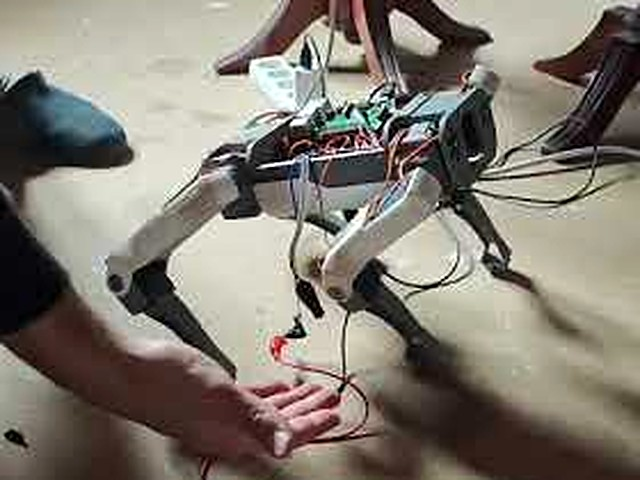
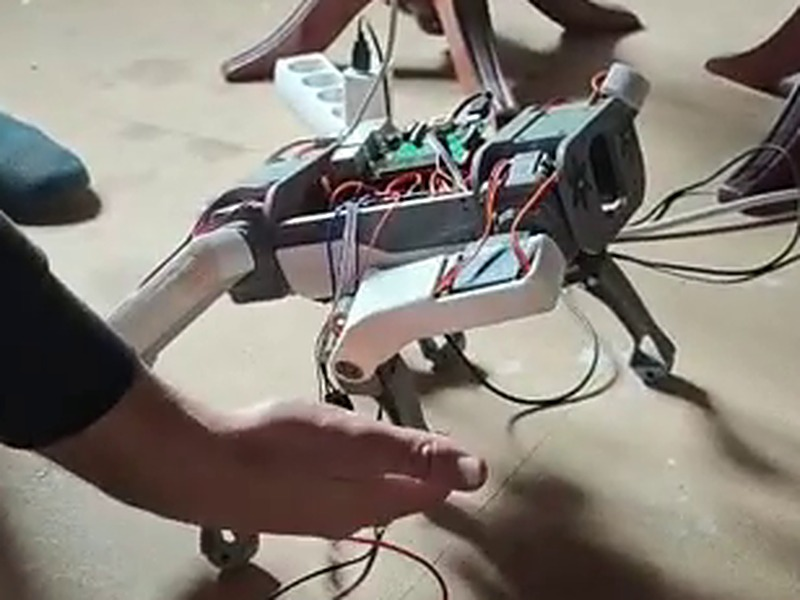
README: cabecera en caja con el robot en acción (WebP animado del vídeo) y 3 fotogramas nítidos: se levanta, menea el culo, da la pata
Fotogramas elegidos midiendo la nitidez en cada momento del vídeo (7,3 s, 50,0 s y 57,8 s) y recortados alrededor del robot.

diff --git a/README.en.md b/README.en.md
@@ -5,14 +5,21 @@
 <p align="center"><b>A 3D-printed quadruped robot dog (a SpotMicro clone) that stands up, gallops, gives its paw and
 "hails the bus", driven from a web app and from the TV, with no internet needed.</b></p>
 
-<p align="center">
-  <a href="https://youtu.be/Hf6u9rh6BYM"><img src="docs/img/video-robot-1.jpg" width="260" alt="The robot dog walking (click to watch the video)"></a>
-  <a href="https://youtu.be/Hf6u9rh6BYM"><img src="docs/img/video-robot-2.jpg" width="260" alt="The robot up close, walking"></a>
-  <a href="https://youtu.be/Hf6u9rh6BYM"><img src="docs/img/video-robot-3.jpg" width="260" alt="Close-up of the robot"></a>
-</p>
-<p align="center">
-  <a href="https://youtu.be/Hf6u9rh6BYM"><img src="https://img.shields.io/badge/▶%20Watch%20the%20video-Robot%20dog%20walking-red?style=for-the-badge&logo=youtube&logoColor=white" alt="Watch the video on YouTube"></a>
-</p>
+<div align="center">
+<table>
+  <tr>
+    <td colspan="3" align="center"><a href="https://youtu.be/Hf6u9rh6BYM"><img src="docs/img/robot-en-accion.webp" width="480" alt="The robot in action: it stands up, wiggles its butt and gives its paw (click to watch the video)"></a></td>
+  </tr>
+  <tr>
+    <td align="center"><a href="https://youtu.be/Hf6u9rh6BYM"><img src="docs/img/video-robot-1.jpg" width="240" alt="1 · Stands up"></a><br><sub><b>1 · Stands up</b></sub></td>
+    <td align="center"><a href="https://youtu.be/Hf6u9rh6BYM"><img src="docs/img/video-robot-2.jpg" width="240" alt="2 · Wiggles its butt"></a><br><sub><b>2 · Wiggles its butt</b></sub></td>
+    <td align="center"><a href="https://youtu.be/Hf6u9rh6BYM"><img src="docs/img/video-robot-3.jpg" width="240" alt="3 · Gives its paw"></a><br><sub><b>3 · Gives its paw</b></sub></td>
+  </tr>
+  <tr>
+    <td colspan="3" align="center"><a href="https://youtu.be/Hf6u9rh6BYM"><img src="https://img.shields.io/badge/▶%20Watch%20the%20full%20video-Robot%20dog%20walking-red?style=for-the-badge&logo=youtube&logoColor=white" alt="Watch the full video on YouTube"></a></td>
+  </tr>
+</table>
+</div>
 
 > The interface and the in-repo docs are in Spanish (the robot's owner is Spanish); this page explains everything in English.
 > Names used throughout: legs **A** front-left · **B** front-right · **C** rear-right · **D** rear-left; joints

diff --git a/README.md b/README.md
@@ -5,14 +5,21 @@
 <p align="center"><b>Un perro robot cuadrúpedo (clon de SpotMicro impreso en 3D) que se pone de pie, anda al galope, da la pata
 y pide el autobús, manejado desde una web y desde la tele, sin internet.</b></p>
 
-<p align="center">
-  <a href="https://youtu.be/Hf6u9rh6BYM"><img src="docs/img/video-robot-1.jpg" width="260" alt="El robot perro andando (pulsa para ver el vídeo)"></a>
-  <a href="https://youtu.be/Hf6u9rh6BYM"><img src="docs/img/video-robot-2.jpg" width="260" alt="El robot de cerca, andando"></a>
-  <a href="https://youtu.be/Hf6u9rh6BYM"><img src="docs/img/video-robot-3.jpg" width="260" alt="Primer plano del robot"></a>
-</p>
-<p align="center">
-  <a href="https://youtu.be/Hf6u9rh6BYM"><img src="https://img.shields.io/badge/▶%20Ver%20el%20vídeo-Robot%20perro%20andando-red?style=for-the-badge&logo=youtube&logoColor=white" alt="Ver el vídeo en YouTube"></a>
-</p>
+<div align="center">
+<table>
+  <tr>
+    <td colspan="3" align="center"><a href="https://youtu.be/Hf6u9rh6BYM"><img src="docs/img/robot-en-accion.webp" width="480" alt="El robot en acción: se levanta, menea el culo y da la pata (pulsa para ver el vídeo)"></a></td>
+  </tr>
+  <tr>
+    <td align="center"><a href="https://youtu.be/Hf6u9rh6BYM"><img src="docs/img/video-robot-1.jpg" width="240" alt="1 · Se levanta"></a><br><sub><b>1 · Se levanta</b></sub></td>
+    <td align="center"><a href="https://youtu.be/Hf6u9rh6BYM"><img src="docs/img/video-robot-2.jpg" width="240" alt="2 · Menea el culo"></a><br><sub><b>2 · Menea el culo</b></sub></td>
+    <td align="center"><a href="https://youtu.be/Hf6u9rh6BYM"><img src="docs/img/video-robot-3.jpg" width="240" alt="3 · Da la pata"></a><br><sub><b>3 · Da la pata</b></sub></td>
+  </tr>
+  <tr>
+    <td colspan="3" align="center"><a href="https://youtu.be/Hf6u9rh6BYM"><img src="https://img.shields.io/badge/▶%20Ver%20el%20vídeo%20completo-Robot%20perro%20andando-red?style=for-the-badge&logo=youtube&logoColor=white" alt="Ver el vídeo completo en YouTube"></a></td>
+  </tr>
+</table>
+</div>
 
 ---
 
